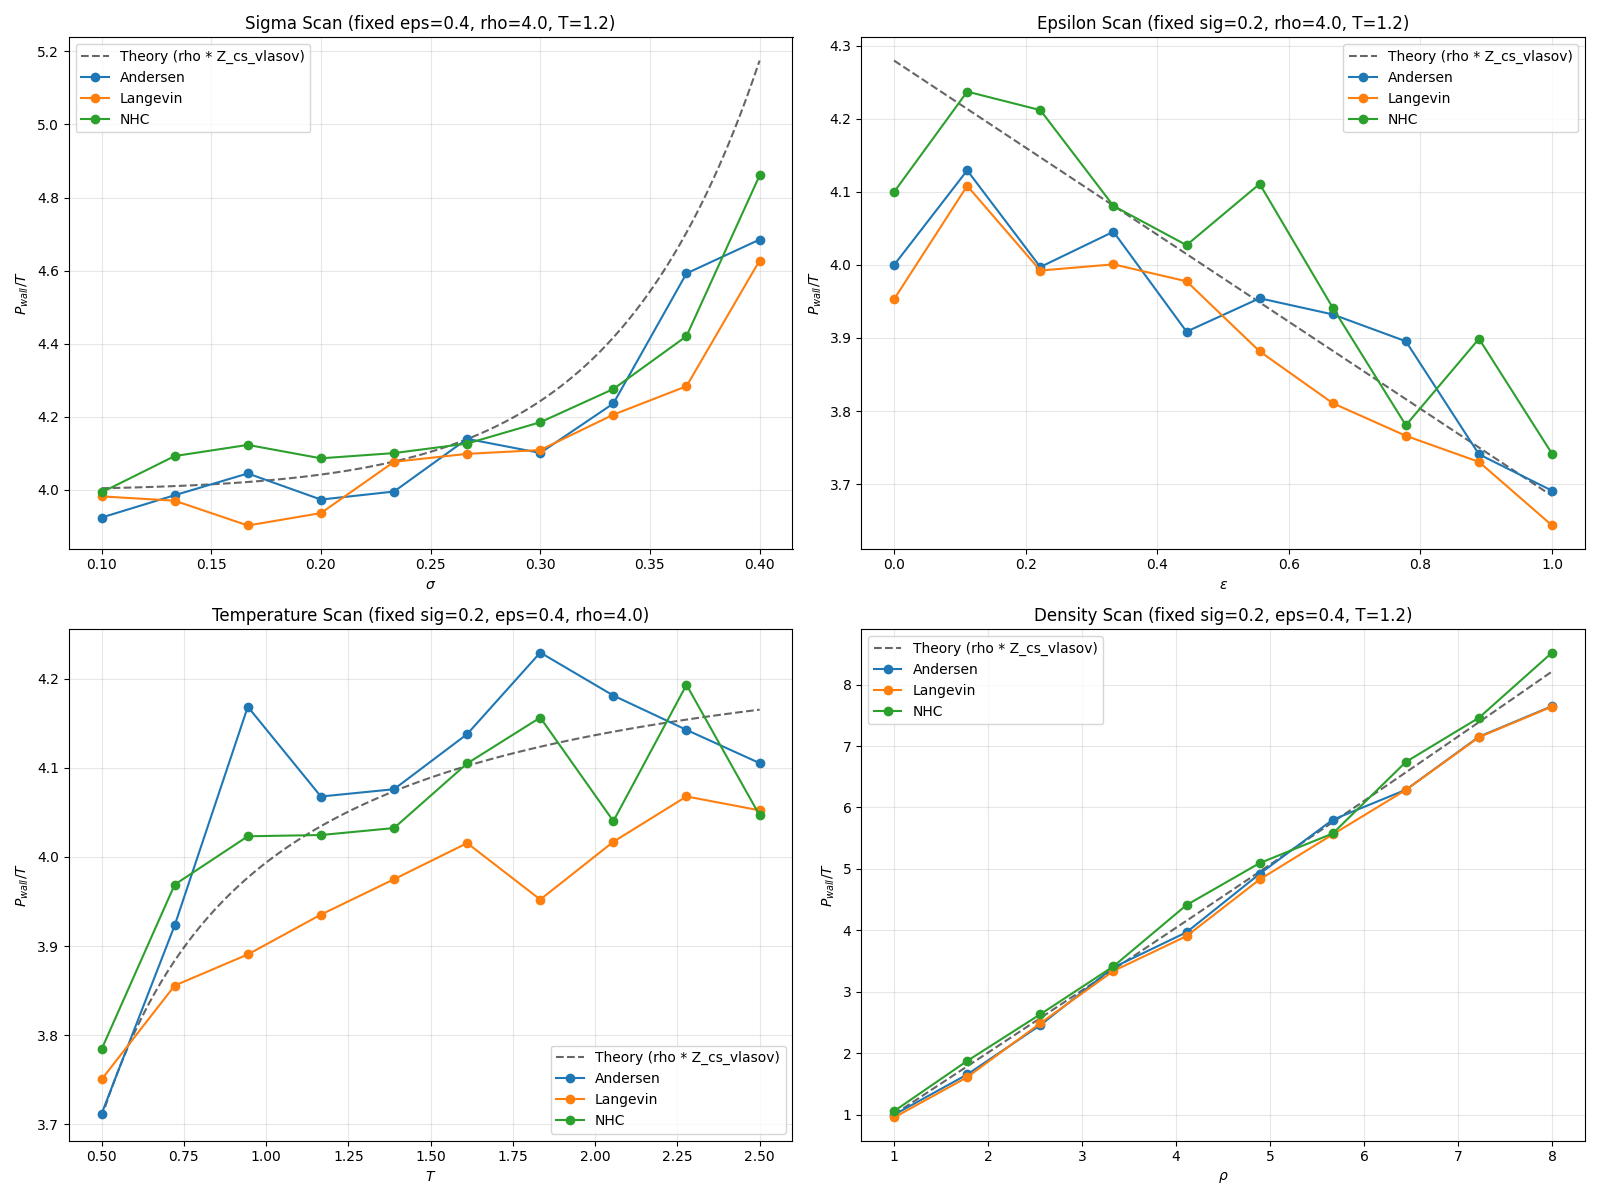
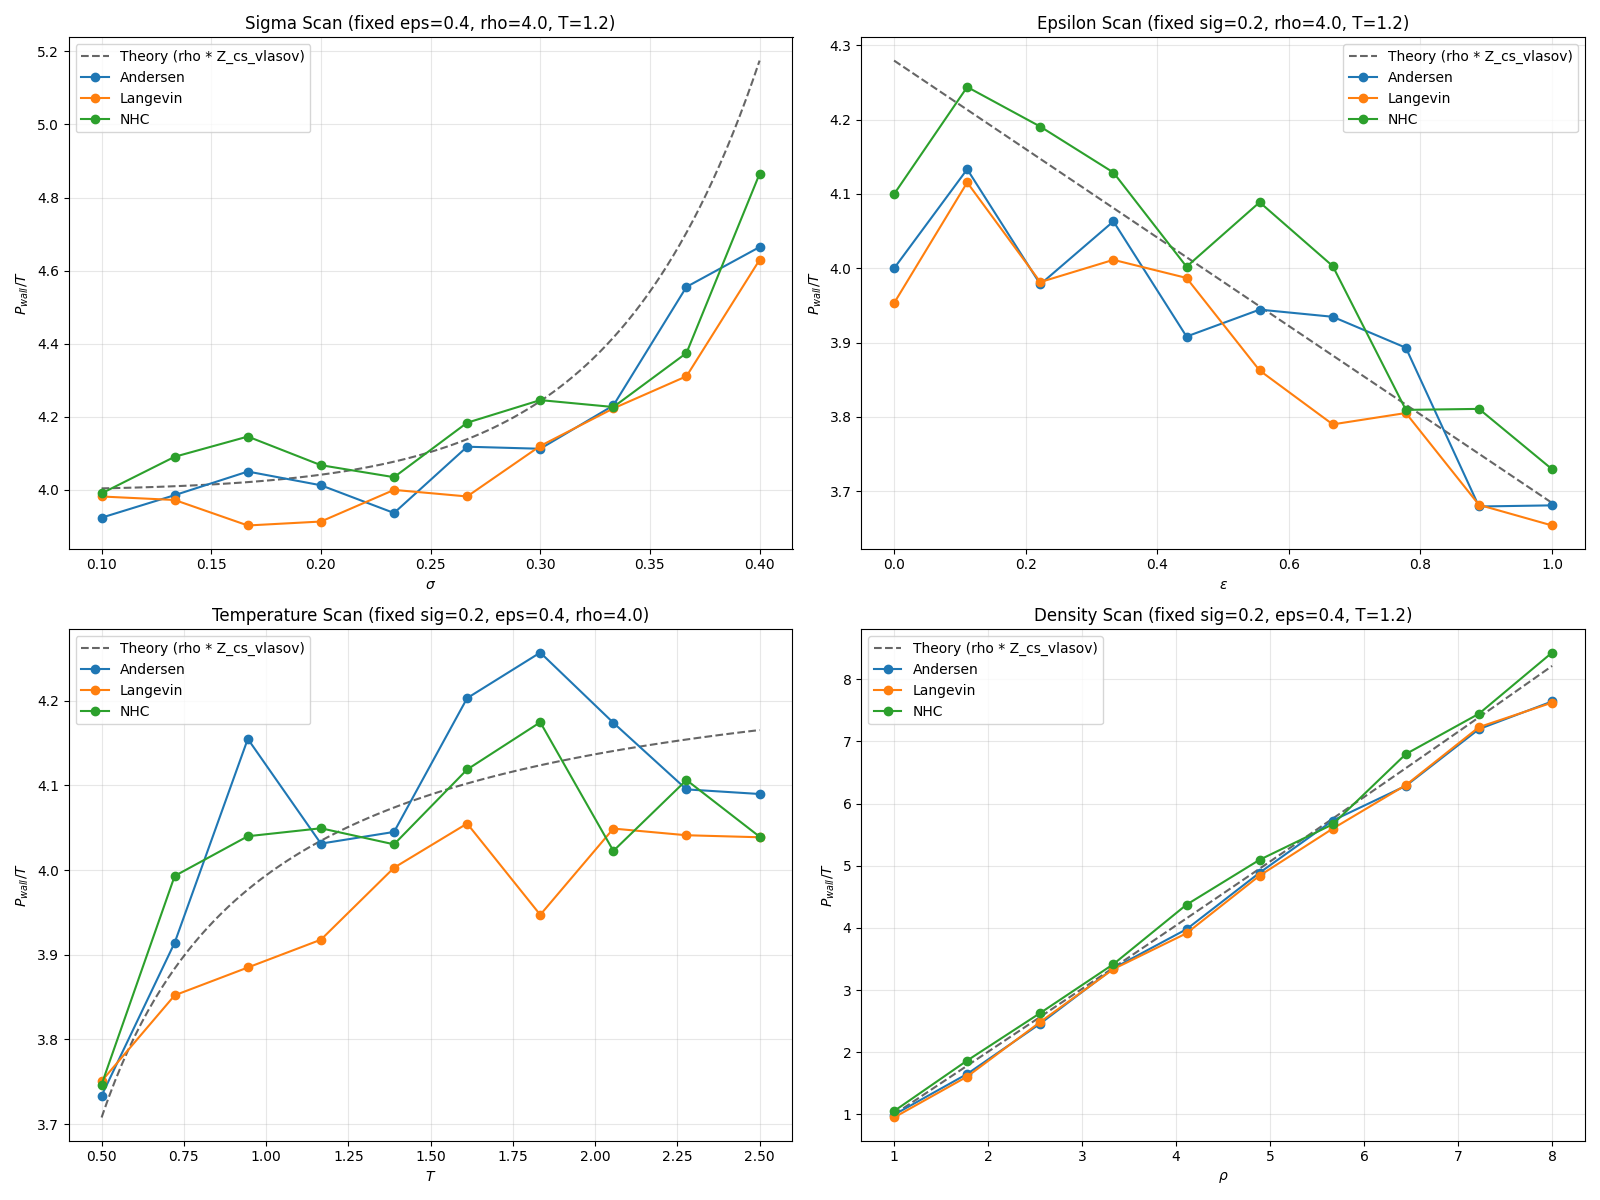
fix: refine report language on epsilon scan and commit latest images
- Updated BAMPS_Modern_Report.tex to clarify the epsilon scan description, distinguishing between direct pairwise LJ forces in simulation and mean-field Vlasov attraction as an analytical correction.
- Committed the latest generated images:
    - comparison_results/thermostat_comparison.png
    - eos_scans/eos_validation_comprehensive.png

This ensures the report accurately reflects the underlying physics implementation and is accompanied by the most recent validation figures.

diff --git a/DSMC/BAMPS_Modern_Report.tex b/DSMC/BAMPS_Modern_Report.tex
@@ -45,7 +45,7 @@ To rigorously verify the physical fidelity of the engine, a 4D parameter scan wa
 
 \begin{itemize}
     \item \textbf{Sigma Scan}: Captures the non-linear growth of excluded volume effects, accurately tracking the Carnahan-Starling prediction as $\sigma$ increases.
-    \item \textbf{Epsilon Scan}: Demonstrates the linear reduction in pressure due to mean-field Vlasov attraction.
+    \item \textbf{Epsilon Scan}: Demonstrates the impact of the attractive component of the Lennard-Jones potential. The simulation directly computes pairwise LJ forces, and the observed trend closely follows the theoretical prediction which includes the mean-field Vlasov attraction as an analytical correction.
     \item \textbf{Temperature Scan}: Shows the relative weakening of attractive forces as kinetic energy increases, with $P/T$ asymptotically approaching the hard-sphere limit.
     \item \textbf{Density Scan}: Validates the engine's stability and accuracy from dilute gas ($\rho=1.0$) to high-density liquid ($\rho=8.0$) regimes.
 \end{itemize}
